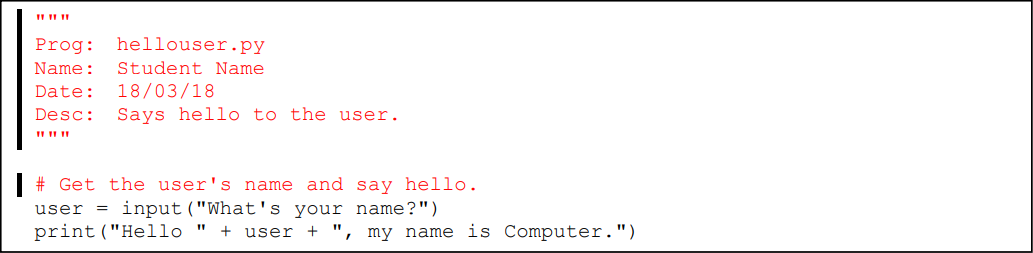
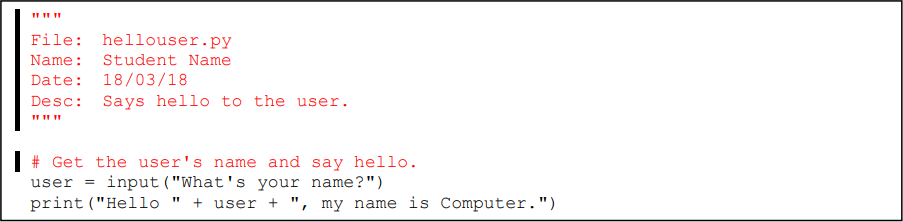
Change docstring format (rename Prog to File)

diff --git a/2_codingFundamentals/lessons/3_commenting/README.md b/2_codingFundamentals/lessons/3_commenting/README.md
@@ -51,7 +51,7 @@ You will be given paper exercises to test your ability to use comments and your 
 
     ```python
     """
-    Prog: [program name.py]
+    File: [program name.py]
     Name: [Your Name]
     Date: [Date the program was written]
     Desc: [Brief, 1-sentence description.]
